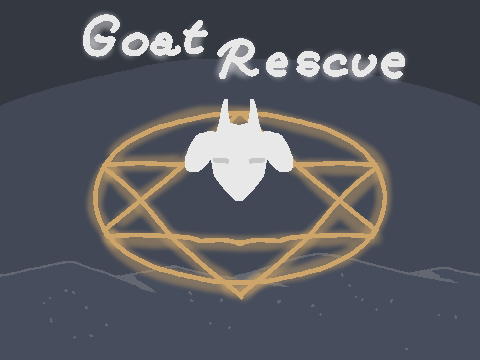
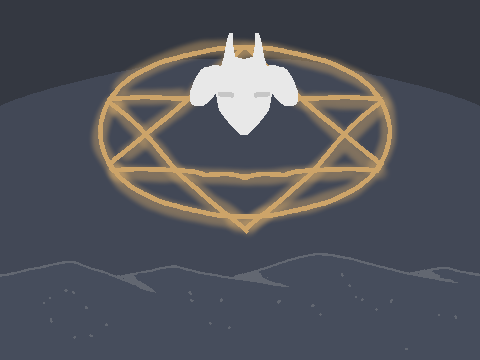
tileset, cinematic skipp all

Changed region(s): [[0.1562, 0.0306, 0.8438, 0.8556]]

diff --git a/core/src/com/pixelfarmers/goat/level/Level.java b/core/src/com/pixelfarmers/goat/level/Level.java
@@ -11,7 +11,7 @@ import com.badlogic.gdx.physics.box2d.World;
 public class Level {
 
     public static Vector2 GOAT_START_POSITION = new Vector2(99*Tile.TILE_SIZE, 37*Tile.TILE_SIZE);
-    public static Vector2 PLAYER_START_POSITION = new Vector2(38*Tile.TILE_SIZE, 36*Tile.TILE_SIZE);
+    public static Vector2 PLAYER_START_POSITION = new Vector2(8 + 38*Tile.TILE_SIZE, 40*Tile.TILE_SIZE);
 
     private final Tile[][] tiles;
     private static final Tile nullTile = new Tile(1, true, 0, 0);

diff --git a/core/src/com/pixelfarmers/goat/level/TiledMapLevelLoader.java b/core/src/com/pixelfarmers/goat/level/TiledMapLevelLoader.java
@@ -22,6 +22,8 @@ public class TiledMapLevelLoader implements LevelGenerator {
         tilePassabilityMap.put(3, false);
         tilePassabilityMap.put(4, false);
         tilePassabilityMap.put(5, false);
+        tilePassabilityMap.put(6, true);
+
         tilePassabilityMap.put(9, true);
 
         tilePassabilityMap.put(10, true);

diff --git a/core/src/com/pixelfarmers/goat/intro/CinematicBlock.java b/core/src/com/pixelfarmers/goat/intro/CinematicBlock.java
@@ -39,4 +39,9 @@ public class CinematicBlock {
     private boolean isFinished() {
         return currentCinematicIndex == cinematicList.size();
     }
+
+    public void skipAll() {
+        currentCinematicIndex = cinematicList.size();
+        cameraControl.returnCameraControl();
+    }
 }
